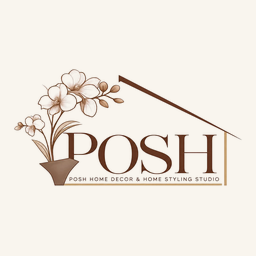
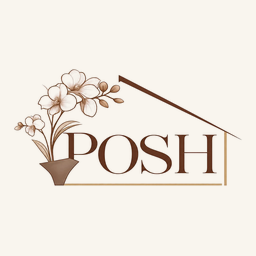
feat: remove styling studio references and update related messaging; adjust hero component copy and metadata for branding consistency

Changed region(s): [[0.25, 0.6875, 0.875, 0.7188]]

diff --git a/components/store/checkout-form.tsx b/components/store/checkout-form.tsx
@@ -22,7 +22,7 @@ function isMobileDevice() {
   return /Android|iPhone|iPad|iPod|Mobile|Silk/i.test(ua) || (/Macintosh/.test(ua) && navigator.maxTouchPoints > 1);
 }
 
-type Fields = CustomerDetails & { note: string; styling: boolean; website: string };
+type Fields = CustomerDetails & { note: string; website: string };
 type Errors = Partial<Record<"name" | "phone" | "address" | "bag", string>>;
 
 function validate(f: Fields, lines: BagLine[]): Errors {
@@ -74,7 +74,7 @@ function CheckoutForm({ initial }: { initial: CustomerDetails }) {
   const router = useRouter();
   const { whatsappNumber, pricePrefix } = useStore();
   const { lines, subtotal, count } = useBagLines();
-  const [f, setF] = useState<Fields>({ ...initial, note: "", styling: true, website: "" });
+  const [f, setF] = useState<Fields>({ ...initial, note: "", website: "" });
   const [tried, setTried] = useState(false);
   const [pending, setPending] = useState(false);
   const [serverError, setServerError] = useState<string | null>(null);
@@ -100,7 +100,6 @@ function CheckoutForm({ initial }: { initial: CustomerDetails }) {
       phoneDisplay: phone?.display ?? (f.phone.trim() || "Your WhatsApp number"),
       address: f.address.trim() || (f.fulfilment === "delivery" ? "Your address" : null),
       note: f.note.trim() || null,
-      styling: f.styling,
       pricePrefix,
     },
     whatsappNumber,
@@ -149,7 +148,6 @@ function CheckoutForm({ initial }: { initial: CustomerDetails }) {
         fulfilment: f.fulfilment,
         address: f.fulfilment === "delivery" ? f.address : "",
         note: f.note,
-        styling: f.styling,
         items: lines.map((l) => ({ productId: l.product.id, qty: l.qty })),
         website: f.website,
       });
@@ -180,7 +178,6 @@ function CheckoutForm({ initial }: { initial: CustomerDetails }) {
           phoneDisplay: normalisePhone(f.phone)?.display ?? f.phone.trim(),
           address: f.fulfilment === "delivery" ? f.address.trim() : null,
           note: f.note.trim() || null,
-          styling: f.styling,
           pricePrefix,
         },
         whatsappNumber,
@@ -351,33 +348,6 @@ function CheckoutForm({ initial }: { initial: CustomerDetails }) {
             <p id={`${ids}-note-count`} className="mt-2 text-right text-[12px] text-muted" aria-live="polite">
               {f.note.length}/{NOTE_MAX}
             </p>
-          </div>
-
-          <div className="flex items-center justify-between gap-4 border-y border-line py-4">
-            <div>
-              <p id={`${ids}-styling`} className="text-[15px] text-brown-deep">
-                Include free styling advice
-              </p>
-              <p className="text-[13px] text-muted">Our stylists will suggest how to place your pieces.</p>
-            </div>
-            <button
-              type="button"
-              role="switch"
-              aria-checked={f.styling}
-              aria-labelledby={`${ids}-styling`}
-              onClick={() => set("styling", !f.styling)}
-              className="tap inline-flex shrink-0 items-center justify-center"
-            >
-              <span
-                className={`relative inline-block h-7 w-12 rounded-full transition-colors ${f.styling ? "bg-brown" : "bg-line-strong"}`}
-              >
-                <span
-                  className={`absolute top-1 left-1 h-5 w-5 rounded-full bg-cream-raised shadow transition-transform ${
-                    f.styling ? "translate-x-5" : ""
-                  }`}
-                />
-              </span>
-            </button>
           </div>
 
           {/* Honeypot: hidden from people, tempting to bots. */}

diff --git a/app/(store)/page.tsx b/app/(store)/page.tsx
@@ -1,13 +1,10 @@
-import Image from "next/image";
 import Link from "next/link";
 import { getCategories, getNewArrivals, getSettings } from "@/lib/data/catalog";
 import { ProductGrid } from "@/components/store/product-card";
 import { PoshImage } from "@/components/ui/posh-image";
-import { ArrowRight, WhatsAppIcon } from "@/components/ui/icons";
-import { TrackedWhatsAppLink } from "@/components/store/tracked-link";
+import { ArrowRight } from "@/components/ui/icons";
 import { JsonLd } from "@/components/store/json-ld";
 import { HomeHero } from "@/components/store/home-hero";
-import { waUrl } from "@/lib/whatsapp/message";
 import { SITE_URL } from "@/lib/env";
 import { BRAND_NAME } from "@/lib/seo";
 
@@ -41,7 +38,7 @@ export default async function HomePage() {
       />
 
       {/* 1. Hero */}
-      <HomeHero eyebrow={settings.hero_eyebrow} headline={settings.hero_headline} accent={settings.hero_headline_accent} />
+      <HomeHero />
 
       {/* 2. Shop by category */}
       {tiles.length > 0 && (
@@ -116,36 +113,6 @@ export default async function HomePage() {
         </section>
       )}
 
-      {/* 4. Styling Studio */}
-      <section id="styling-studio" className="scroll-mt-24 bg-brown-deep text-cream" aria-labelledby="studio-heading">
-        <div className="container-posh grid items-center gap-12 py-[clamp(64px,10vw,120px)] md:grid-cols-2">
-          <div data-reveal>
-            <p className="eyebrow text-gold">Home Styling Studio</p>
-            <h2 id="studio-heading" className="mt-4 font-display text-[clamp(34px,4.4vw,60px)] leading-[1.02] font-medium">
-              Let us style it <em className="text-gold-light">for you.</em>
-            </h2>
-            <p className="mt-6 max-w-md text-[16px] leading-relaxed font-light text-cream/85">
-              From a single console to a whole living room, our stylists help you choose, place and layer pieces so
-              your home feels finished. Tell us about your space and we&apos;ll take it from there.
-            </p>
-            <TrackedWhatsAppLink
-              href={waUrl(settings.whatsapp_number, settings.styling_studio_message)}
-              event="styling_studio_click"
-              className="btn btn-gold mt-10"
-            >
-              <WhatsAppIcon size={18} /> Chat on WhatsApp
-            </TrackedWhatsAppLink>
-          </div>
-          <div className="grid grid-cols-2 gap-4" data-reveal>
-            <div className="relative mt-12 aspect-[4/5] overflow-hidden">
-              <Image src="/images/studio-1.jpg" alt="A styled reading corner with a brass lamp" fill sizes="(max-width: 768px) 50vw, 25vw" className="object-cover" />
-            </div>
-            <div className="relative aspect-[4/5] overflow-hidden">
-              <Image src="/images/studio-2.jpg" alt="A gilded ginger jar styled on a console" fill sizes="(max-width: 768px) 50vw, 25vw" className="object-cover" />
-            </div>
-          </div>
-        </div>
-      </section>
     </>
   );
 }

diff --git a/components/store/home-hero.tsx b/components/store/home-hero.tsx
@@ -23,9 +23,13 @@ const fadeUp: Variants = {
   show: { opacity: 1, y: 0, transition: { duration: 0.9, ease: EASE } },
 };
 
-type Props = { eyebrow: string; headline: string; accent: string };
+// Hero copy is hard-coded rather than read from the settings table.
+const EYEBROW = "BEAUTIFUL SPACES";
+const HEADLINE = "Inspired Living";
+const DESCRIPTION =
+  "Curated home decor and unique accent pieces to help you create spaces you love.";
 
-export function HomeHero({ eyebrow, headline, accent }: Props) {
+export function HomeHero() {
   const ref = useRef<HTMLElement>(null);
   const reduce = useReducedMotion();
 
@@ -34,8 +38,7 @@ export function HomeHero({ eyebrow, headline, accent }: Props) {
   const copyY = useTransform(scrollYProgress, [0, 1], [0, reduce ? 0 : -80]);
   const copyOpacity = useTransform(scrollYProgress, [0.15, 0.75], [1, reduce ? 1 : 0]);
 
-  const headWords = headline.split(/\s+/).filter(Boolean);
-  const accentWords = accent.split(/\s+/).filter(Boolean);
+  const headWords = HEADLINE.split(/\s+/).filter(Boolean);
 
   return (
     <MotionConfig reducedMotion="user">
@@ -57,8 +60,7 @@ export function HomeHero({ eyebrow, headline, accent }: Props) {
           initial="hidden"
           animate="show"
         >
-          {eyebrow && (
-            <motion.div variants={fadeUp} className="flex items-center gap-4">
+          <motion.div variants={fadeUp} className="flex items-center gap-4">
               <motion.span
                 aria-hidden
                 className="h-px w-12 origin-left bg-gold"
@@ -66,23 +68,21 @@ export function HomeHero({ eyebrow, headline, accent }: Props) {
                 animate={{ scaleX: 1 }}
                 transition={{ duration: 1, delay: 0.3, ease: EASE }}
               />
-              <p className="eyebrow text-gold">{eyebrow}</p>
+              <p className="eyebrow text-gold">{EYEBROW}</p>
             </motion.div>
-          )}
 
           <h1
-            aria-label={`${headline} ${accent}`.trim()}
+            aria-label={HEADLINE}
             className="mt-5 max-w-[14ch] font-display text-[clamp(44px,min(7vw,12svh),108px)] leading-[0.98] font-medium"
           >
             {headWords.map((w, i) => (
               <Word key={`h${i}`}>{w}</Word>
             ))}
-            {accentWords.map((w, i) => (
-              <Word key={`a${i}`}>
-                <em className="hero-shimmer font-normal">{w}</em>
-              </Word>
-            ))}
           </h1>
+
+          <motion.p variants={fadeUp} className="mt-6 max-w-[46ch] text-[clamp(16px,1.4vw,19px)] leading-relaxed text-cream/85">
+            {DESCRIPTION}
+          </motion.p>
 
           <motion.div variants={fadeUp} className="mt-10 flex flex-wrap items-center gap-x-8 gap-y-4">
             <motion.div whileHover={{ y: -2 }} whileTap={{ scale: 0.97 }}>

diff --git a/components/store/footer.tsx b/components/store/footer.tsx
@@ -13,7 +13,7 @@ export async function SiteFooter() {
         <div>
           <Logo tone="light" className="h-28" />
           <p className="mt-6 max-w-xs font-display text-[22px] leading-snug text-cream/90">
-            Home decor &amp; styling studio, <em className="text-gold-light">Georgetown, Guyana.</em>
+            Curated home decor, <em className="text-gold-light">Georgetown, Guyana.</em>
           </p>
         </div>
         <div>
@@ -34,7 +34,6 @@ export async function SiteFooter() {
           <ul className="mt-4">
             <li><Link href="/cart" className={link}>Your bag</Link></li>
             <li><Link href="/saved" className={link}>Saved pieces</Link></li>
-            <li><Link href="/#styling-studio" className={link}>Styling Studio</Link></li>
           </ul>
         </div>
         <div>
@@ -52,7 +51,7 @@ export async function SiteFooter() {
       </div>
       <div className="border-t border-cream/10">
         <div className="container-posh flex flex-col gap-3 py-6 text-[12px] text-cream/60 md:flex-row md:items-center md:justify-between">
-          <p>© Posh Home Decor &amp; Home Styling Studio</p>
+          <p>© Posh Home Decor</p>
           <p className="max-w-xl md:text-right">
             Privacy: when you order, we keep your name, number and order details for up to 12 months to help with your
             purchase. Your bag and saved pieces stay on your device.

diff --git a/app/actions/inquiry.ts b/app/actions/inquiry.ts
@@ -16,7 +16,6 @@ const InquirySchema = z
     fulfilment: z.enum(["delivery", "collection"]),
     address: z.string().trim().max(300).optional().default(""),
     note: z.string().trim().max(500).optional().default(""),
-    styling: z.boolean(),
     items: z
       .array(z.object({ productId: z.uuid(), qty: z.number().int().min(1).max(MAX_QTY) }))
       .min(1, "Your bag is empty")
@@ -152,7 +151,6 @@ export async function submitInquiry(input: InquiryInput): Promise<InquiryResult>
           phoneDisplay: phone.display,
           address,
           note,
-          styling: v.styling,
           pricePrefix: settings.price_prefix,
         },
         settings.whatsapp_number,
@@ -166,7 +164,7 @@ export async function submitInquiry(input: InquiryInput): Promise<InquiryResult>
         fulfilment: v.fulfilment,
         address,
         note,
-        styling_advice: v.styling,
+        styling_advice: false, // column kept for old inquiries; the option is gone
         items,
         item_count: itemCount,
         subtotal,

diff --git a/components/store/tracked-link.tsx b/components/store/tracked-link.tsx
@@ -2,8 +2,6 @@
 
 import { track } from "@/lib/analytics";
 
-type EventName = "whatsapp_product_question" | "styling_studio_click";
-
 /** External WhatsApp link that records an analytics event. */
 export function TrackedWhatsAppLink({
   href,
@@ -13,7 +11,7 @@ export function TrackedWhatsAppLink({
   children,
 }: {
   href: string;
-  event: EventName;
+  event: "whatsapp_product_question";
   product?: string;
   className?: string;
   children: React.ReactNode;
@@ -24,9 +22,7 @@ export function TrackedWhatsAppLink({
       target="_blank"
       rel="noopener noreferrer"
       className={className}
-      onClick={() =>
-        event === "styling_studio_click" ? track(event, {}) : track(event, { product: product ?? "" })
-      }
+      onClick={() => track(event, { product: product ?? "" })}
     >
       {children}
     </a>

diff --git a/app/admin/actions/settings.ts b/app/admin/actions/settings.ts
@@ -20,7 +20,6 @@ const SettingsInput = z.object({
   defaultCareText: z.string().trim().max(4000),
   defaultDeliveryText: z.string().trim().max(4000),
   newWindowDays: z.number().int().min(1).max(365),
-  stylingStudioMessage: z.string().trim().min(1).max(500),
 });
 
 export type SettingsInputT = z.input<typeof SettingsInput>;
@@ -48,7 +47,6 @@ export async function saveSettings(input: SettingsInputT): Promise<ActionResult>
       default_care_text: v.defaultCareText,
       default_delivery_text: v.defaultDeliveryText,
       new_window_days: v.newWindowDays,
-      styling_studio_message: v.stylingStudioMessage,
     })
     .eq("id", 1);
   if (error) return { ok: false, error: error.message };

diff --git a/components/admin/settings-form.tsx b/components/admin/settings-form.tsx
@@ -82,12 +82,6 @@ export function SettingsForm({ initial }: { initial: Values }) {
             onChange={(e) => set("newWindowDays", Math.max(1, Math.min(365, Number(e.target.value.replace(/\D/g, "")) || 1)))}
           />
         </div>
-        <div>
-          <label htmlFor={`${ids}-ss`} className={label}>
-            Styling Studio WhatsApp message
-          </label>
-          <textarea id={`${ids}-ss`} className="field min-h-[80px]" value={v.stylingStudioMessage} onChange={(e) => set("stylingStudioMessage", e.target.value)} />
-        </div>
       </section>
 
       <section className="space-y-5 border-t border-line pt-8">

diff --git a/app/admin/(protected)/inquiries/[id]/page.tsx b/app/admin/(protected)/inquiries/[id]/page.tsx
@@ -78,10 +78,6 @@ export default async function InquiryDetail({ params }: PageProps<"/admin/inquir
           <p className="mt-1 text-[15px]">{inq.fulfilment === "delivery" ? "Delivery" : "Collection from the showroom"}</p>
           {inq.address && <p className="mt-1 text-[15px] whitespace-pre-line text-ink-soft">{inq.address}</p>}
         </div>
-        <div>
-          <p className={label}>Styling advice</p>
-          <p className="mt-1 text-[15px]">{inq.styling_advice ? "Yes please ✨" : "No"}</p>
-        </div>
         {inq.note && (
           <div className="sm:col-span-2">
             <p className={label}>Note</p>

diff --git a/lib/whatsapp/message.ts b/lib/whatsapp/message.ts
@@ -16,7 +16,6 @@ export type MessageInput = {
   phoneDisplay: string;
   address?: string | null;
   note?: string | null;
-  styling: boolean;
   pricePrefix?: string;
 };
 
@@ -46,7 +45,6 @@ function render(input: MessageInput, mode: Mode) {
   out.push(`Phone: ${input.phoneDisplay}`);
   if (input.fulfilment === "delivery" && input.address) out.push(`Address: ${input.address}`);
   if (mode === "full" && input.note) out.push(`Note: ${input.note}`);
-  if (input.styling) out.push("", "I'd love some free styling advice too ✨");
   return out.join("\n");
 }
 

diff --git a/app/layout.tsx b/app/layout.tsx
@@ -21,7 +21,7 @@ const jost = Jost({
 });
 
 const title = `${BRAND_NAME} | Georgetown, Guyana`;
-const description = `Curated home decor, furniture and styling from ${BRAND_NAME} in Georgetown, Guyana. Build your bag and order on WhatsApp.`;
+const description = `Curated home decor, furniture and accent pieces from ${BRAND_NAME} in Georgetown, Guyana. Build your bag and order on WhatsApp.`;
 
 export const metadata: Metadata = {
   metadataBase: new URL(SITE_URL),

diff --git a/components/store/logo.tsx b/components/store/logo.tsx
@@ -7,7 +7,7 @@ export function Logo({ tone = "dark", className = "h-14 nav:h-16" }: { tone?: "d
   return (
     <Image
       src={tone === "dark" ? logoFull : logoFullLight}
-      alt="Posh Home Decor & Home Styling Studio"
+      alt="Posh Home Decor"
       loading="eager"
       sizes="240px"
       className={`w-auto shrink-0 ${className}`}
